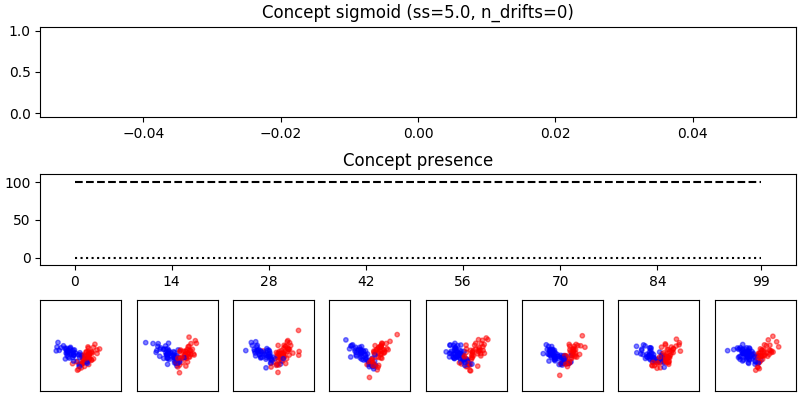
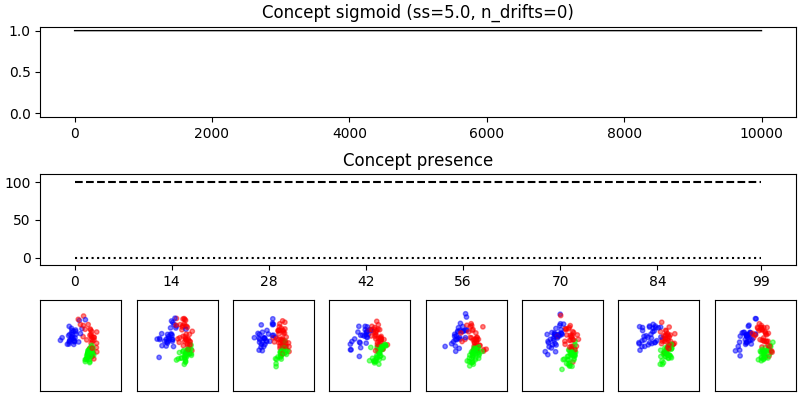
Major concept selector.

diff --git a/strlearn/streams/StreamGenerator.py b/strlearn/streams/StreamGenerator.py
@@ -25,7 +25,7 @@ class StreamGenerator:
         The seed used by the random number generator.
     n_drifts : integer, optional (default=4)
         The number of concept changes in the data stream.
-    concept_sigmoid_spacing : integer, optional (default=10)
+    concept_sigmoid_spacing : float, optional (default=10.)
         Value that determines how sudden is the change of concept.
         The higher the value, the more sudden the drift is.
     n_classes : integer, optional (default=2)
@@ -35,13 +35,14 @@ class StreamGenerator:
     ----------
 
     """
+
     def __init__(
         self,
         n_chunks=250,
         chunk_size=200,
         random_state=1410,
         n_drifts=4,
-        concept_sigmoid_spacing=10,
+        concept_sigmoid_spacing=10.0,
         n_classes=2,
         **kwargs,
     ):
@@ -53,6 +54,12 @@ class StreamGenerator:
         self.concept_sigmoid_spacing = concept_sigmoid_spacing
         self.n_classes = n_classes
         self.make_classification_kwargs = kwargs
+        self.n_samples = self.n_chunks * self.chunk_size
+        self.classes = [label for label in range(self.n_classes)]
+        if "n_features" in kwargs:
+            self.n_features = kwargs["n_features"]
+        else:
+            self.n_features = 20
 
     def is_dry(self):
         """Checking if we have reached the end of the stream."""
@@ -74,28 +81,31 @@ class StreamGenerator:
         if hasattr(self, "X"):
             self.previous_chunk = self.current_chunk
         else:
-            # To pomocniczo
-            n_samples = self.n_chunks * self.chunk_size
-            X_a, y_a = make_classification(
-                **self.make_classification_kwargs,
-                n_samples=self.n_chunks * self.chunk_size,
-                n_classes=self.n_classes,
-                random_state=self.random_state,
+            # To jest dziwna koncepcja z wagami z wierszy macierzy diagonalnej ale działa.
+            # Jak coś działa to jest dobre.
+            self.concepts = np.array(
+                [
+                    [
+                        make_classification(
+                            **self.make_classification_kwargs,
+                            n_samples=self.n_chunks * self.chunk_size,
+                            n_classes=self.n_classes,
+                            random_state=self.random_state + i,
+                            weights=weights.tolist(),
+                        )[0].T
+                        for weights in np.diag(
+                            np.diag(np.ones((self.n_classes, self.n_classes)))
+                        )
+                    ]
+                    for i in range(self.n_drifts + 1)
+                ]
             )
-            X_b, y_b = make_classification(
-                **self.make_classification_kwargs,
-                n_samples=self.n_chunks * self.chunk_size,
-                n_classes=self.n_classes,
-                random_state=self.random_state + 1,
-            )
-            big_X = np.array([X_a, X_b])
-            big_y = np.array([y_a, y_b])
 
             # Okres
             period = (
-                int((n_samples) / (self.n_drifts))
+                int((self.n_samples) / (self.n_drifts))
                 if self.n_drifts > 0
-                else int(n_samples)
+                else int(self.n_samples)
             )
 
             # Sigmoid
@@ -117,24 +127,28 @@ class StreamGenerator:
                     )
                 )
                 if self.n_drifts > 0
-                else np.ones(n_samples)
+                else np.ones(self.n_samples)
             )
             # Szum
-            self.concept_noise = np.random.rand(n_samples)
+            self.concept_noise = np.random.rand(self.n_samples)
+            self.balance_noise = np.random.rand(self.n_samples)
 
             # Selekcja klas
             self.concept_selector = (self.concept_sigmoid > self.concept_noise).astype(
                 int
             )
+            self.class_selector = (self.balance_noise * self.n_classes).astype(int)
 
-            # Przypisanie klas {do naprawy}
-            self.X = np.zeros(X_a.shape)
-            self.X[self.concept_selector == 0] = big_X[0, self.concept_selector == 0, :]
-            self.X[self.concept_selector == 1] = big_X[1, self.concept_selector == 1, :]
+            # Przypisanie klas i etykiet
+            if self.n_drifts > 0:
+                # Jeśli dryfy, przypisz koncepty
+                self.concepts = np.choose(self.concept_selector, self.concepts)
+            else:
+                # Jeśli nie, przecież jest jeden, więc spłaszcz
+                self.concepts = np.squeeze(self.concepts)
 
-            self.y = np.zeros(y_a.shape)
-            self.y[self.concept_selector == 0] = big_y[0, self.concept_selector == 0]
-            self.y[self.concept_selector == 1] = big_y[1, self.concept_selector == 1]
+            self.X = np.choose(self.class_selector, self.concepts).T
+            self.y = self.class_selector
 
             self.chunk_id = -1
             self.previous_chunk = None
@@ -148,8 +162,6 @@ class StreamGenerator:
             )
 
             self.current_chunk = (self.X[start:end], self.y[start:end])
-            print(self.current_chunk)
-
             return self.current_chunk
         else:
             return None

diff --git a/examples/drift_plotter.py b/examples/drift_plotter.py
@@ -10,10 +10,11 @@ This example shows a basic stream processing using WAE algorithm.
 # Authors: Paweł Ksieniewicz <pawel.ksieniewicz@pwr.edu.pl>
 # License: MIT
 
+
+import numpy as np
 from strlearn.streams import StreamGenerator
 import matplotlib.pyplot as plt
 from matplotlib.gridspec import GridSpec
-import numpy as np
 
 
 streams = {
@@ -22,21 +23,8 @@ streams = {
         chunk_size=100,
         random_state=105,
         n_features=2,
-        n_classes=2,
+        n_classes=3,
         n_drifts=2,
-        n_informative=2,
-        n_redundant=0,
-        n_repeated=0,
-        concept_sigmoid_spacing=5,
-        n_clusters_per_class=1,
-    ),
-    "0_stationary": StreamGenerator(
-        n_chunks=100,
-        chunk_size=100,
-        random_state=105,
-        n_features=2,
-        n_classes=2,
-        n_drifts=0,
         n_informative=2,
         n_redundant=0,
         n_repeated=0,
@@ -48,12 +36,25 @@ streams = {
         chunk_size=100,
         random_state=105,
         n_features=2,
-        n_classes=2,
+        n_classes=3,
         n_drifts=2,
         n_informative=2,
         n_redundant=0,
         n_repeated=0,
         concept_sigmoid_spacing=999,
+        n_clusters_per_class=1,
+    ),
+    "0_stationary": StreamGenerator(
+        n_chunks=100,
+        chunk_size=100,
+        random_state=105,
+        n_features=2,
+        n_classes=3,
+        n_drifts=0,
+        n_informative=2,
+        n_redundant=0,
+        n_repeated=0,
+        concept_sigmoid_spacing=5,
         n_clusters_per_class=1,
     ),
 }
@@ -81,7 +82,7 @@ for stream_name in streams:
         if i in checkpoints:
             index = np.where(checkpoints == i)[0][0]
             ax = fig.add_subplot(gs[2, index])
-            ax.scatter(X[:, 0], X[:, 1], c=y, s=10, alpha=0.5, cmap="bwr")
+            ax.scatter(X[:, 0], X[:, 1], c=y, s=10, alpha=0.5, cmap="brg")
             ax.set_xlim(-5, 5)
             ax.set_ylim(-5, 5)
             ax.set_xticks([])
@@ -101,7 +102,7 @@ for stream_name in streams:
         "Concept sigmoid (ss=%.1f, n_drifts=%i)"
         % (stream.concept_sigmoid_spacing, stream.n_drifts)
     )
-    ax.plot(stream.concept_sigmoid_spacing, lw=1, c="black")
+    ax.plot(stream.concept_sigmoid, lw=1, c="black")
     ax.set_ylim(-0.05, 1.05)
 
     plt.savefig("plots/%s.png" % stream_name)
